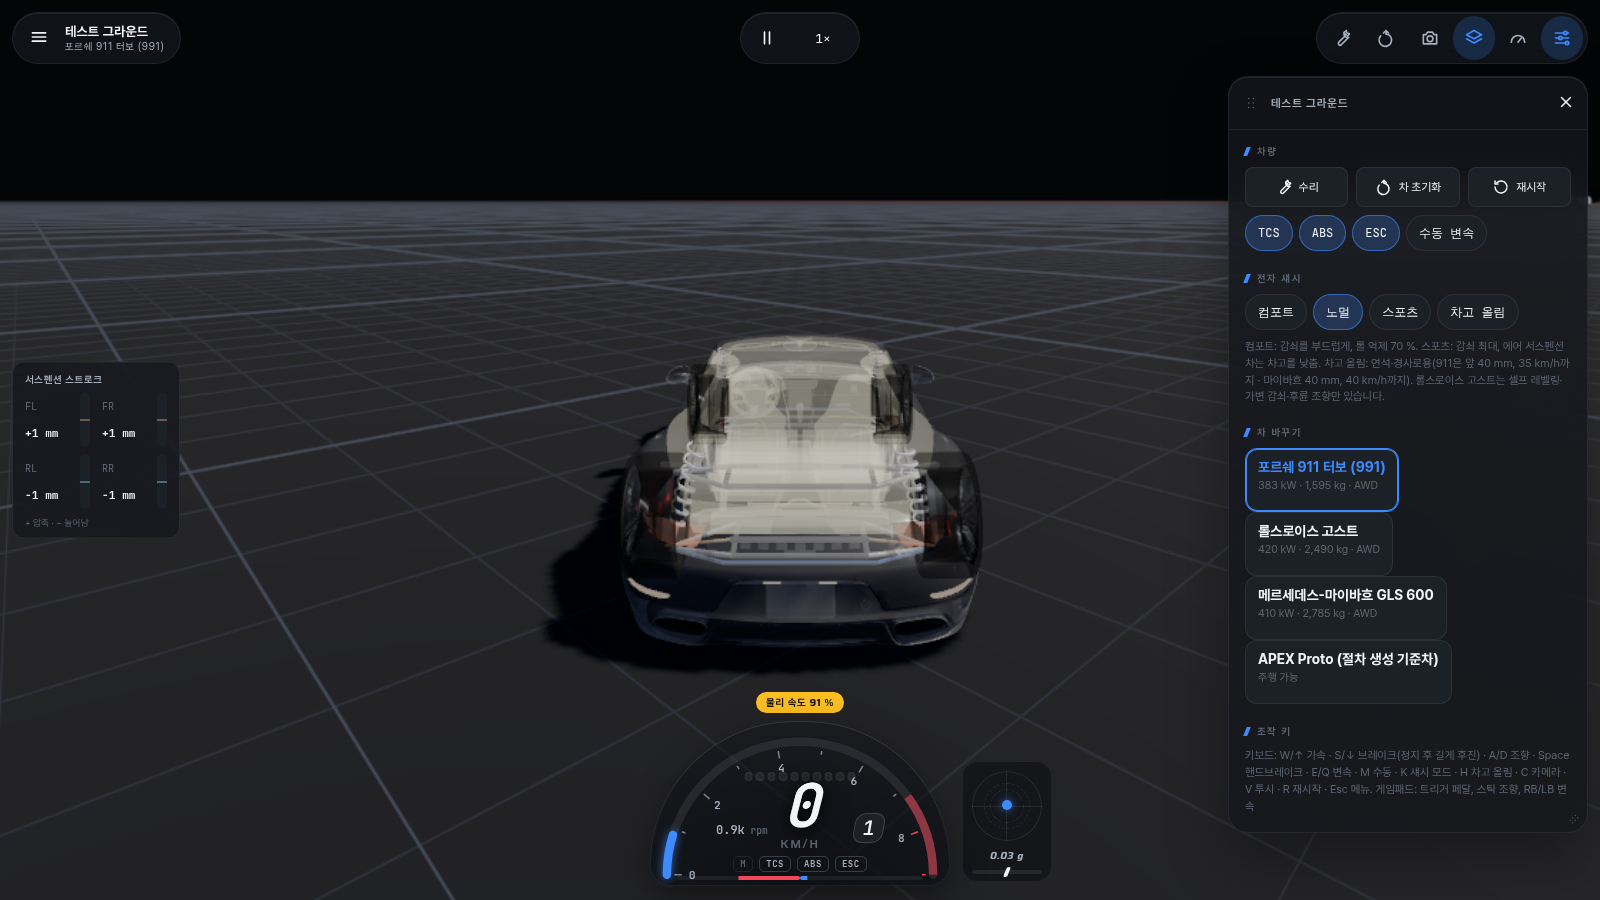
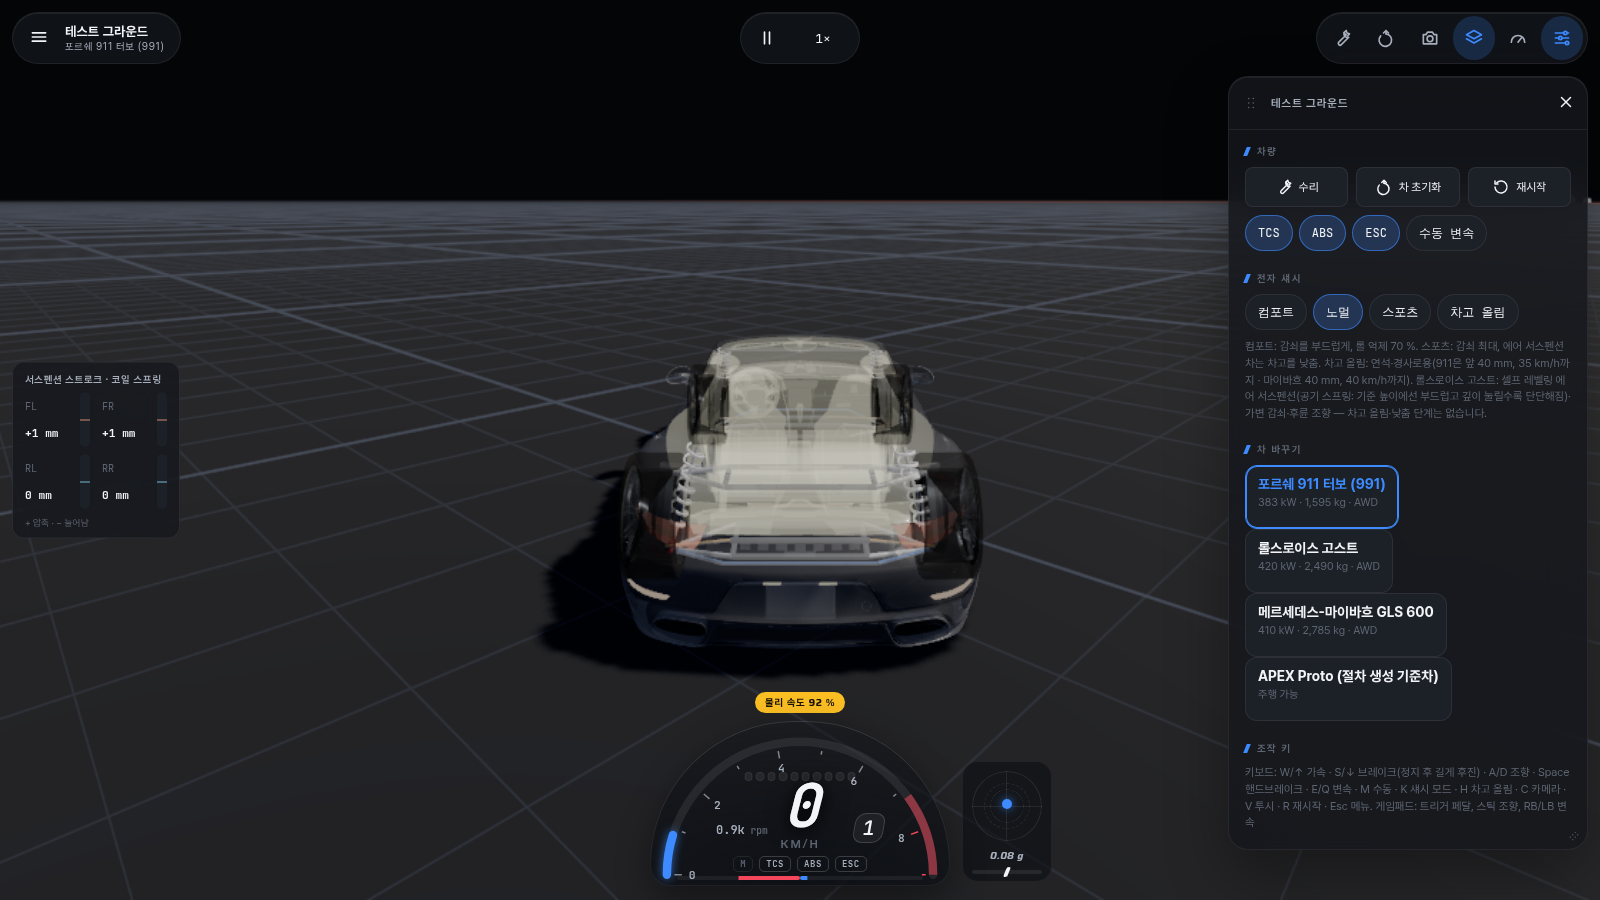
Batch O: verification notes, refreshed E2E screenshots
Claude-Session: https://claude.ai/code/session_01FHJ8hXFhW8w9TFuDVMHqWv

diff --git a/apex-sim/CHANGELOG.md b/apex-sim/CHANGELOG.md
@@ -47,7 +47,9 @@
 - 섀시 설명을 바꿨다: "롤스로이스 고스트: 셀프 레벨링 에어 서스펜션·가변 감쇠·후륜 조향 — 차고 올림·낮춤 단계는 없음". 실차 보도자료에 운전자가 고르는 차고 단계가 없어서 넣지 않았다.
 
 ### 확인
-- 네이티브 테스트 131개(단언 3,683개) 모두 통과했다. 새 테스트: 하중 300 kg에서 공기 스프링이 선형보다 덜 가라앉고(14.4 mm 대 15.3 mm), 기준 높이는 같다.
+- 네이티브·WASM 테스트 131개(단언 3,683개) 모두 통과했다. 새 테스트: 하중 300 kg에서 공기 스프링이 선형보다 덜 가라앉고(14.4 mm 대 15.3 mm), 기준 높이는 같다.
+- E2E 통과(첫 실행은 WASM 테스트와 동시에 돌려 화면 캡처가 30초를 넘겼고, 단독으로 다시 돌려 통과).
+- 마이바흐 뒤쪽은 주행 화면(노을·밤)과 차고 화면에서, 고스트 투시의 벨로즈는 테스트 그라운드에서, 매우 낮음은 도심 자유 주행에서 확인했다.
 
 ## 배치 N — 노을 지는 골목 (사용자 요청: 참고 이미지 + "이런 느낌")
 
